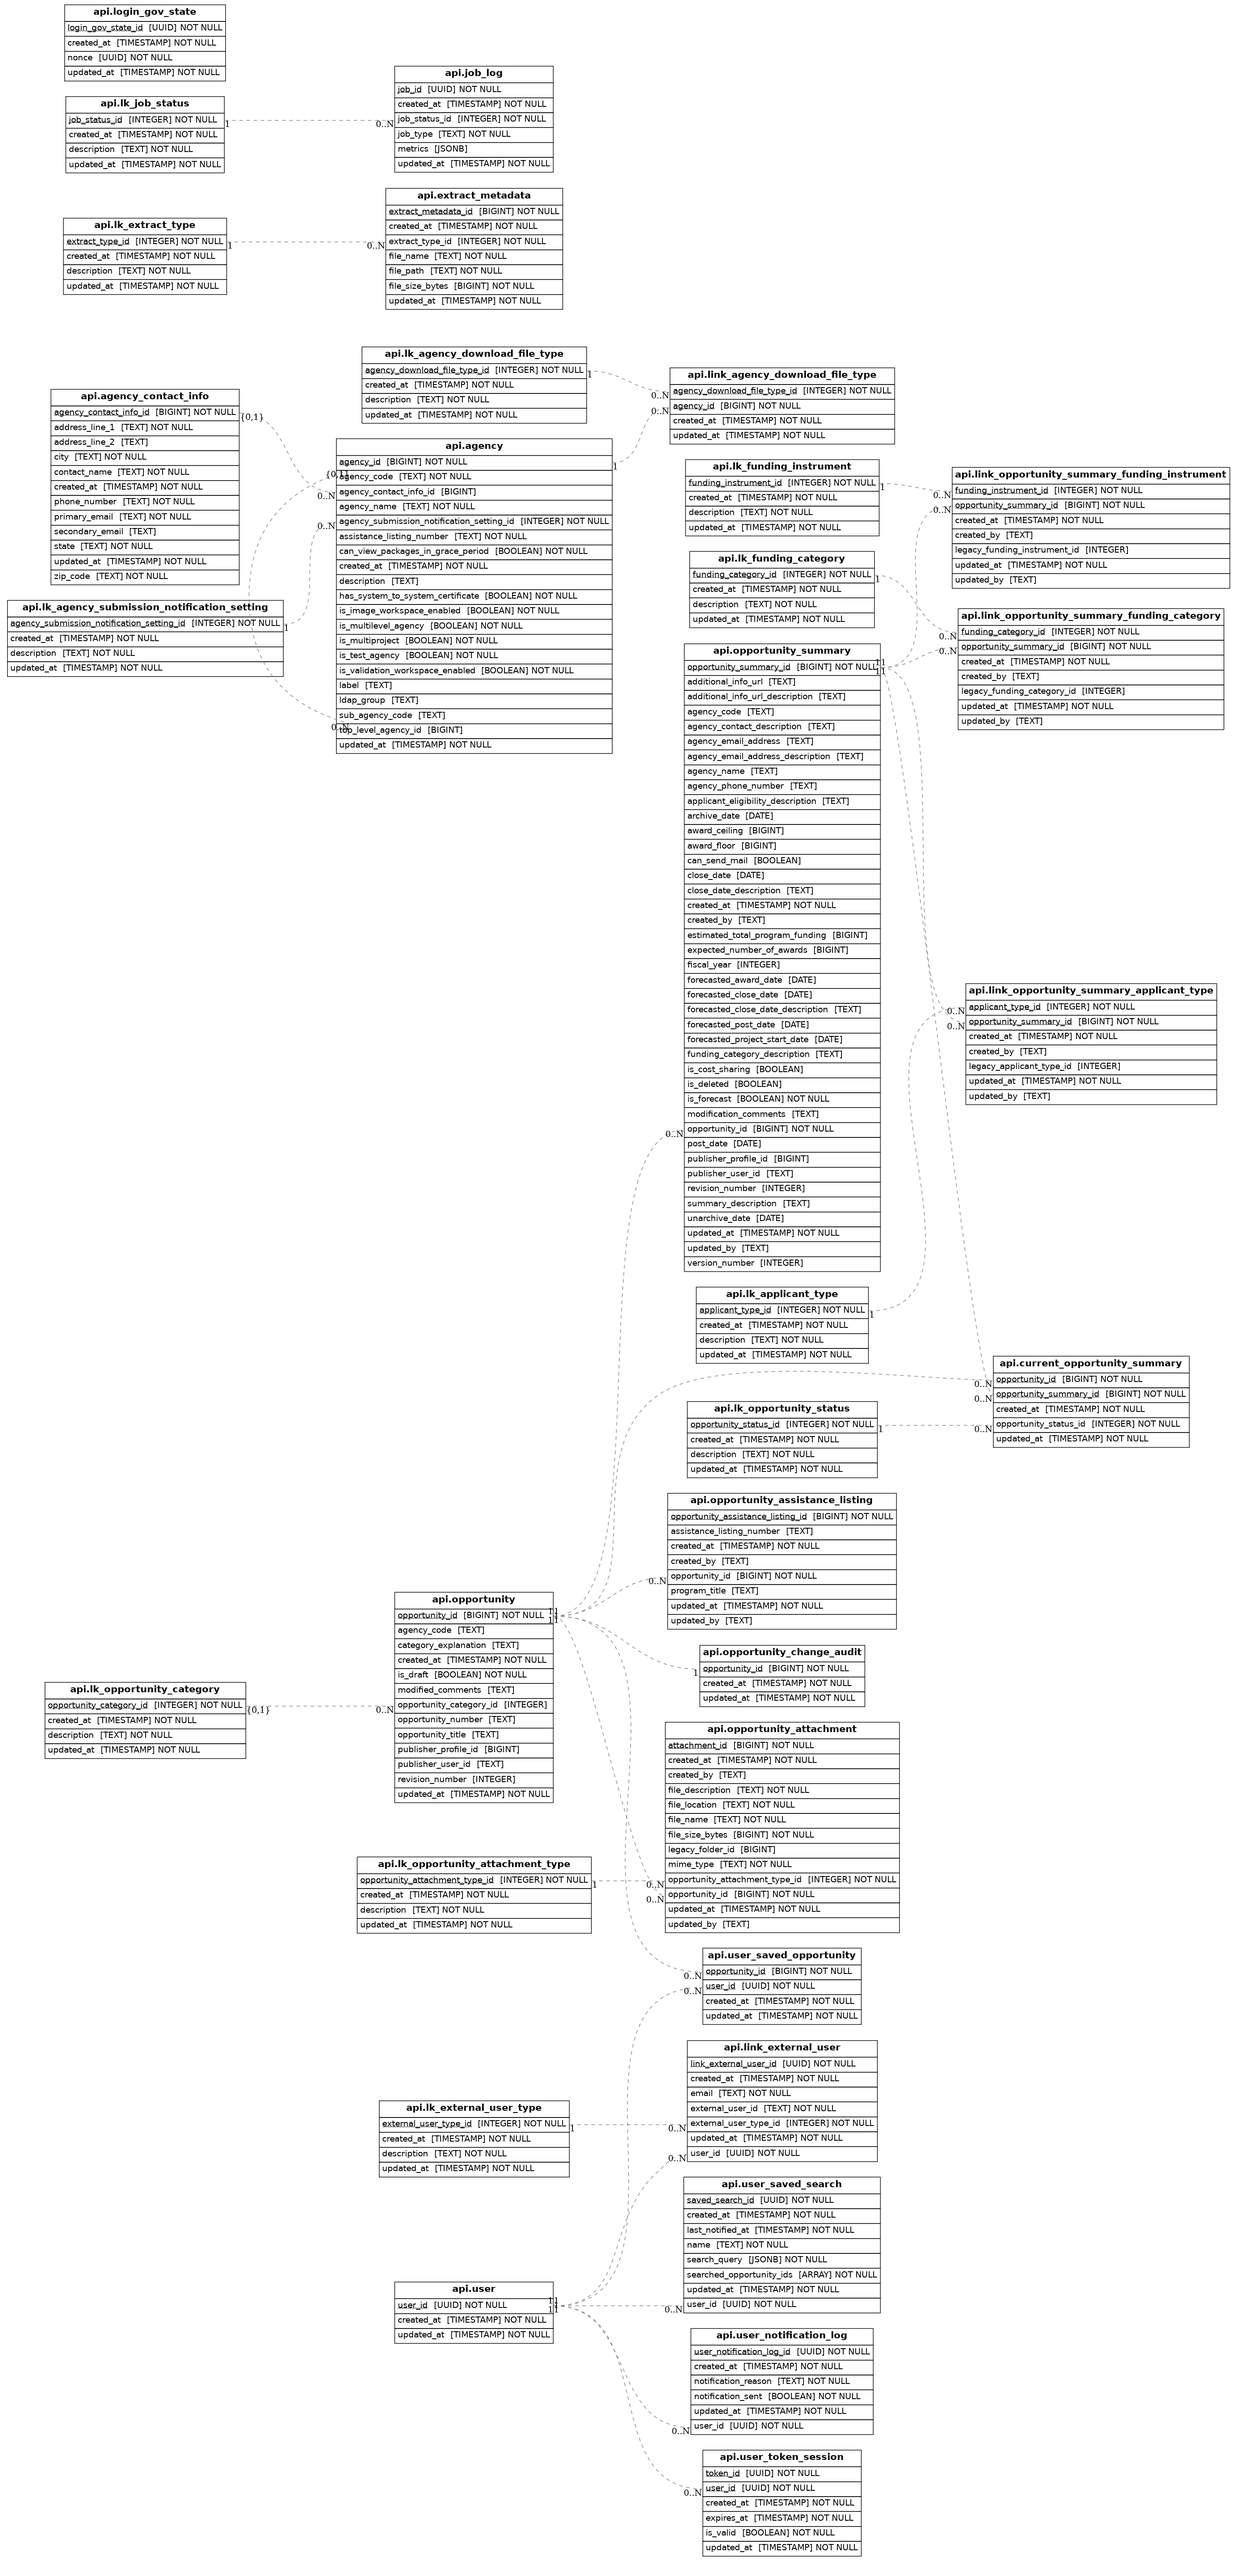
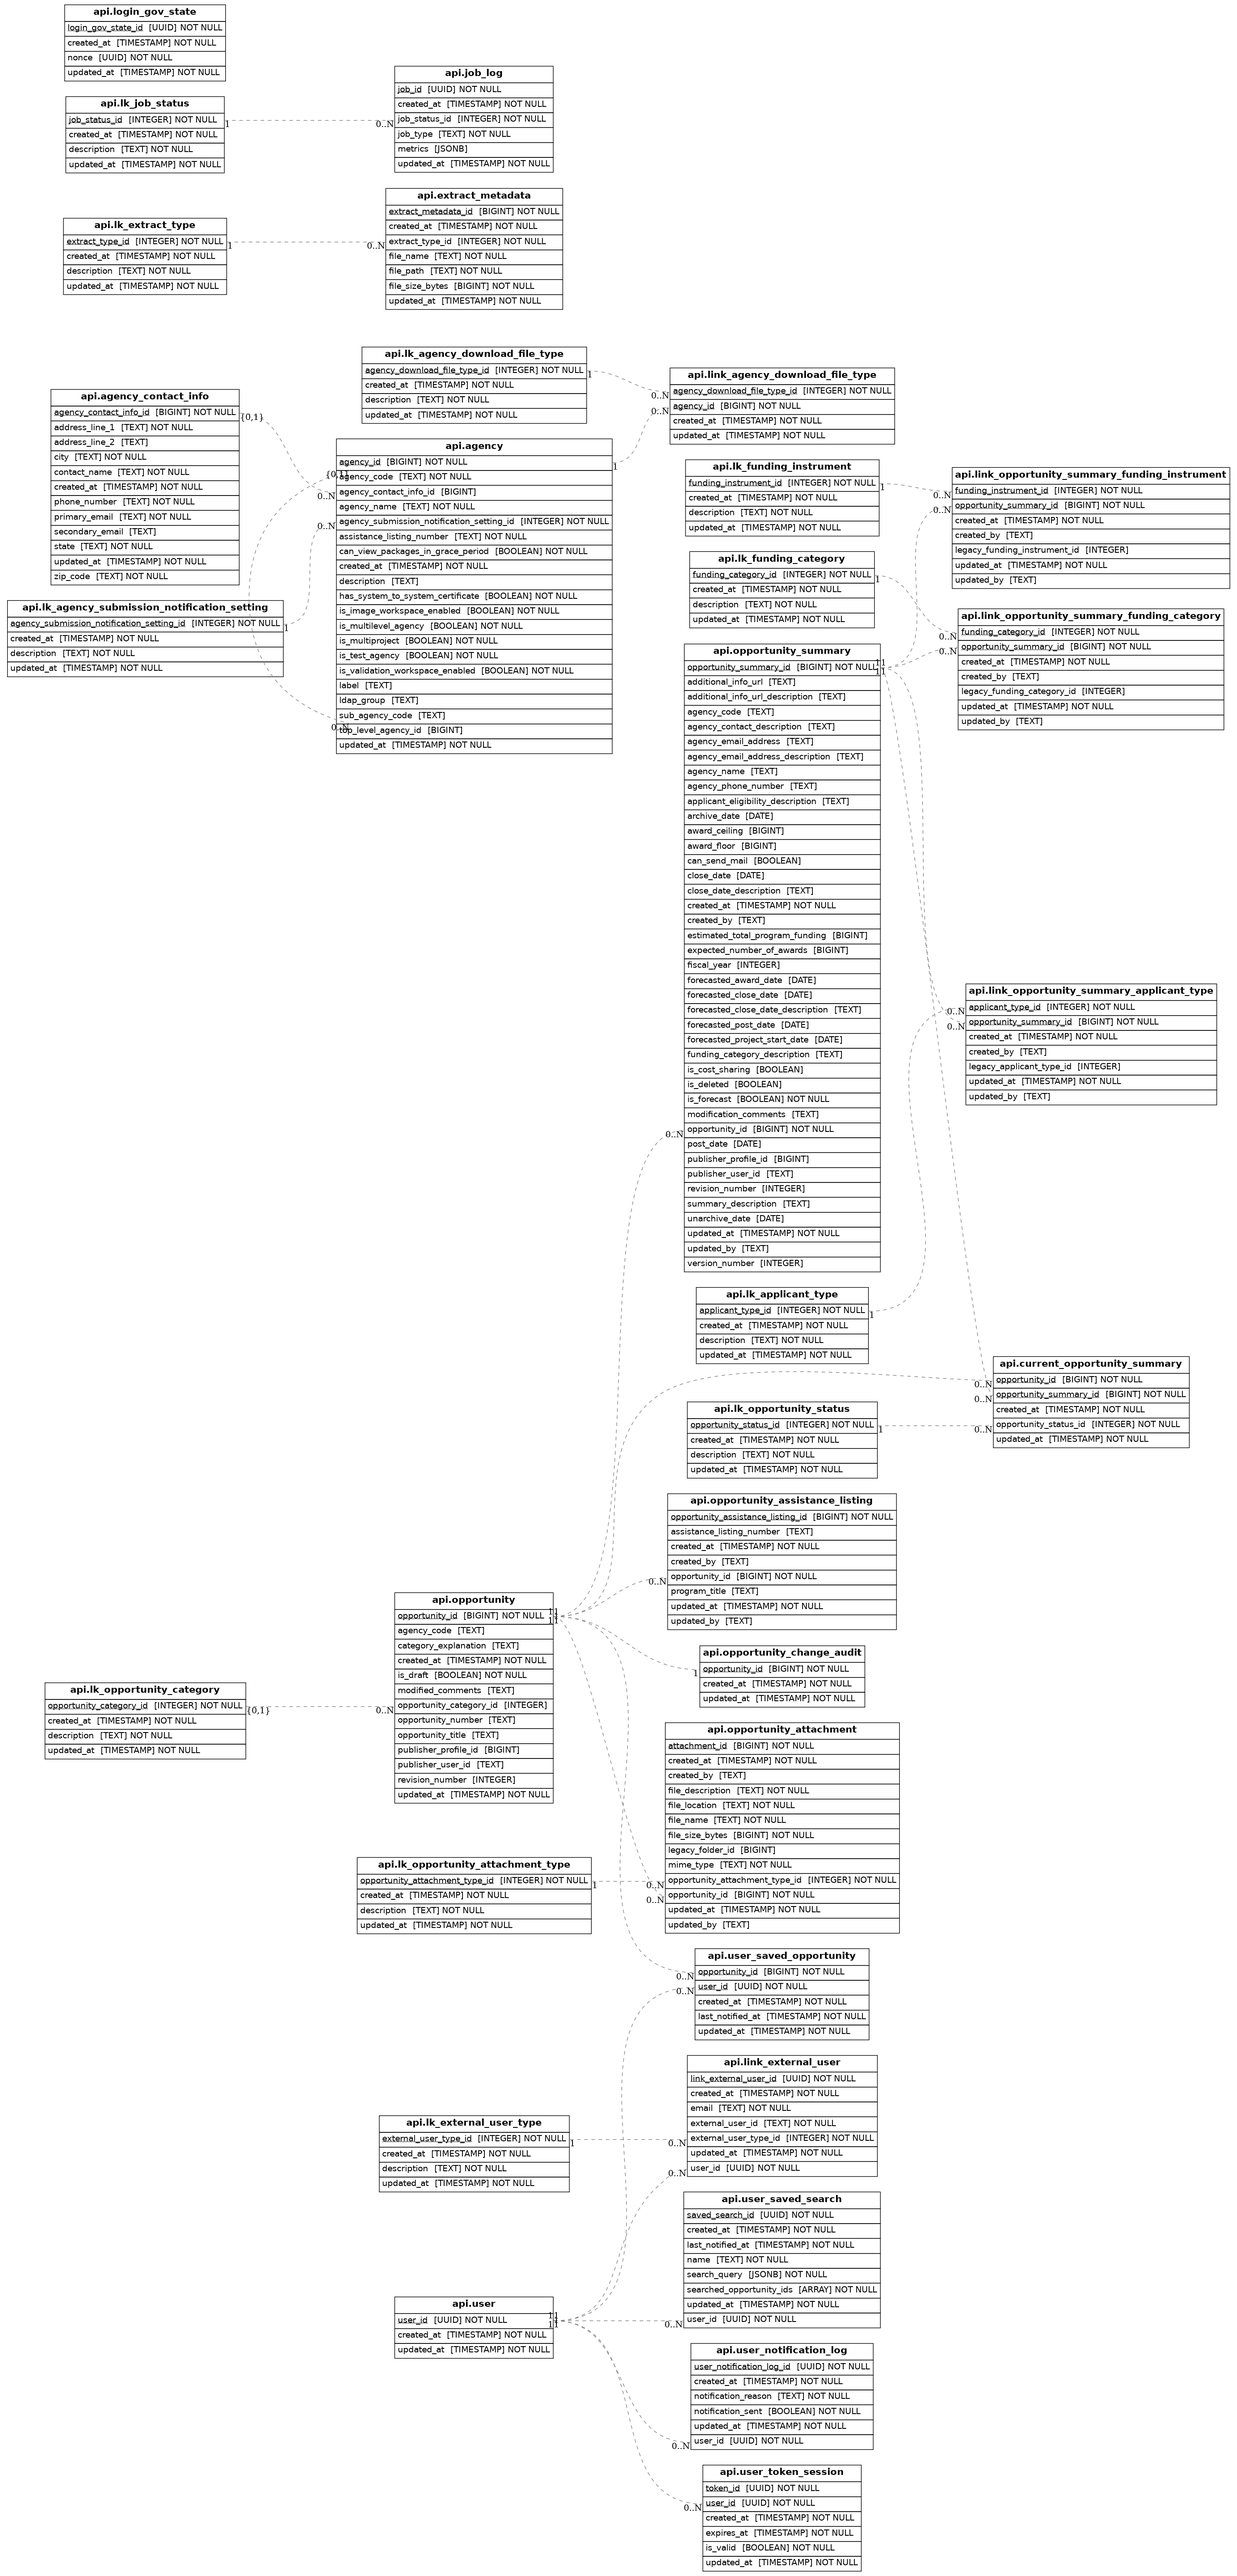
[Issue #3536] Add saved opportunity notifications to backend job (#3639)
## Summary
Fixes #3536

### Time to review: 15 mins

## Changes proposed
Add `last_notified_at` to `user_saved_opportunity`
Collect opportunity notifications, log them out and test.

## Context for reviewers
Can be merged, now that #3527 is wrapped up. 

## Additional information
See attached unit tests

diff --git a/api/tests/src/task/notifications/test_generate_notifications.py b/api/tests/src/task/notifications/test_generate_notifications.py
@@ -1,5 +1,132 @@
+from datetime import timedelta
+
+import pytest
+
+import tests.src.db.models.factories as factories
+from src.db.models.user_models import UserNotificationLog
+from src.task.notifications.generate_notifications import NotificationConstants
+
+
+@pytest.fixture
+def clear_notification_logs(db_session):
+    """Clear all notification logs"""
+    db_session.query(UserNotificationLog).delete()
+
+
 def test_via_cli(cli_runner, db_session, enable_factory_create, user):
     """Simple test that verifies we can invoke the notification task via CLI"""
     result = cli_runner.invoke(args=["task", "generate-notifications"])
 
     assert result.exit_code == 0
+
+
+def test_collect_notifications_cli(cli_runner, db_session, enable_factory_create, user, caplog):
+    """Simple test that verifies we can invoke the notification task via CLI"""
+    # Create a saved opportunity that needs notification
+    opportunity = factories.OpportunityFactory.create()
+    saved_opportunity = factories.UserSavedOpportunityFactory.create(
+        user=user,
+        opportunity=opportunity,
+        last_notified_at=opportunity.updated_at - timedelta(days=1),
+    )
+    factories.OpportunityChangeAuditFactory.create(
+        opportunity=opportunity,
+        updated_at=saved_opportunity.last_notified_at + timedelta(minutes=1),
+    )
+
+    result = cli_runner.invoke(args=["task", "generate-notifications"])
+
+    assert result.exit_code == 0
+
+    # Verify expected log messages
+    assert "Collected opportunity notifications" in caplog.text
+    assert "Would send notification to user" in caplog.text
+
+    # Verify the log contains the correct metrics
+    log_records = [r for r in caplog.records if "Would send notification to user" in r.message]
+    assert len(log_records) == 1
+    extra = log_records[0].__dict__
+    assert extra["user_id"] == user.user_id
+    assert extra["opportunity_count"] == 1
+    assert extra["search_count"] == 0
+
+
+def test_last_notified_at_updates(cli_runner, db_session, enable_factory_create, user):
+    """Test that last_notified_at gets updated after sending notifications"""
+    # Create an opportunity that was updated after the last notification
+    opportunity = factories.OpportunityFactory.create()
+    saved_opp = factories.UserSavedOpportunityFactory.create(
+        user=user,
+        opportunity=opportunity,
+        last_notified_at=opportunity.updated_at - timedelta(days=1),
+    )
+    factories.OpportunityChangeAuditFactory.create(
+        opportunity=opportunity,
+        updated_at=saved_opp.last_notified_at + timedelta(minutes=1),
+    )
+    # Store the original notification time
+    original_notification_time = saved_opp.last_notified_at
+
+    # Run the notification task
+    result = cli_runner.invoke(args=["task", "generate-notifications"])
+    assert result.exit_code == 0
+
+    # Refresh the saved opportunity from the database
+    db_session.refresh(saved_opp)
+
+    # Verify last_notified_at was updated
+    assert saved_opp.last_notified_at > original_notification_time
+    # Verify last_notified_at is now after the opportunity's updated_at
+    assert saved_opp.last_notified_at > opportunity.updated_at
+
+
+def test_notification_log_creation(
+    cli_runner, db_session, enable_factory_create, clear_notification_logs, user
+):
+    """Test that notification logs are created when notifications are sent"""
+    # Create a saved opportunity that needs notification
+    opportunity = factories.OpportunityFactory.create()
+    saved_opportunity = factories.UserSavedOpportunityFactory.create(
+        user=user,
+        opportunity=opportunity,
+        last_notified_at=opportunity.updated_at - timedelta(days=1),
+    )
+
+    factories.OpportunityChangeAuditFactory.create(
+        opportunity=opportunity,
+        updated_at=saved_opportunity.last_notified_at + timedelta(minutes=1),
+    )
+
+    # Run the notification task
+    result = cli_runner.invoke(args=["task", "generate-notifications"])
+    assert result.exit_code == 0
+
+    # Verify notification log was created
+    notification_logs = db_session.query(UserNotificationLog).all()
+    assert len(notification_logs) == 1
+
+    log = notification_logs[0]
+    assert log.user_id == user.user_id
+    assert log.notification_reason == NotificationConstants.OPPORTUNITY_UPDATES
+    assert log.notification_sent is True
+
+
+def test_no_notification_log_when_no_updates(
+    cli_runner, db_session, enable_factory_create, clear_notification_logs, user
+):
+    """Test that no notification log is created when there are no updates"""
+    # Create a saved opportunity that doesn't need notification
+    opportunity = factories.OpportunityFactory.create()
+    factories.UserSavedOpportunityFactory.create(
+        user=user,
+        opportunity=opportunity,
+        last_notified_at=opportunity.updated_at + timedelta(minutes=1),  # After the update
+    )
+
+    # Run the notification task
+    result = cli_runner.invoke(args=["task", "generate-notifications"])
+    assert result.exit_code == 0
+
+    # Verify no notification log was created
+    notification_logs = db_session.query(UserNotificationLog).all()
+    assert len(notification_logs) == 0

diff --git a/api/src/task/notifications/generate_notifications.py b/api/src/task/notifications/generate_notifications.py
@@ -3,12 +3,16 @@ import uuid
 from dataclasses import dataclass, field
 from enum import StrEnum
 
+from sqlalchemy import select, update
+
 import src.adapters.db as db
 import src.adapters.db.flask_db as flask_db
-from src.db.models.user_models import User
+from src.db.models.opportunity_models import OpportunityChangeAudit
+from src.db.models.user_models import UserNotificationLog, UserSavedOpportunity
 from src.task.ecs_background_task import ecs_background_task
 from src.task.task import Task
 from src.task.task_blueprint import task_blueprint
+from src.util import datetime_util
 
 logger = logging.getLogger(__name__)
 
@@ -24,12 +28,15 @@ def run_notification_task(db_session: db.Session) -> None:
     task.run()
 
 
+class NotificationConstants:
+    OPPORTUNITY_UPDATES = "opportunity_updates"
+
+
 @dataclass
 class NotificationContainer:
     """Container for collecting notifications for a single user"""
 
-    user: User
-    updated_opportunity_ids: list[int] = field(default_factory=list)
+    saved_opportunities: list[UserSavedOpportunity] = field(default_factory=list)
     # TODO: Change from str to something else
     updated_searches: list[str] = field(default_factory=list)
 
@@ -55,11 +62,35 @@ class NotificationTask(Task):
         self._send_notifications()
 
     def _collect_opportunity_notifications(self) -> None:
-        """Collect notifications for changed opportunities
-        To be implemented in future ticket
-        """
-        logger.info("Opportunity notification collection not yet implemented")
-        pass
+        """Collect notifications for changed opportunities that users are tracking"""
+        stmt = (
+            select(UserSavedOpportunity)
+            .join(
+                OpportunityChangeAudit,
+                OpportunityChangeAudit.opportunity_id == UserSavedOpportunity.opportunity_id,
+            )
+            .where(OpportunityChangeAudit.updated_at > UserSavedOpportunity.last_notified_at)
+            .distinct()
+        )
+
+        results = self.db_session.execute(stmt)
+
+        for row in results.scalars():
+            user_id = row.user_id
+            if user_id not in self.user_notification_map:
+                self.user_notification_map[user_id] = NotificationContainer()
+            self.user_notification_map[user_id].saved_opportunities.append(row)
+
+        logger.info(
+            "Collected opportunity notifications",
+            extra={
+                "user_count": len(self.user_notification_map),
+                "total_notifications": sum(
+                    len(container.saved_opportunities)
+                    for container in self.user_notification_map.values()
+                ),
+            },
+        )
 
     def _collect_search_notifications(self) -> None:
         """Collect notifications for changed saved searches
@@ -71,7 +102,7 @@ class NotificationTask(Task):
     def _send_notifications(self) -> None:
         """Send collected notifications to users"""
         for user_id, container in self.user_notification_map.items():
-            if not container.updated_opportunity_ids and not container.updated_searches:
+            if not container.saved_opportunities and not container.updated_searches:
                 continue
 
             # TODO: Implement actual notification sending in future ticket
@@ -79,14 +110,33 @@ class NotificationTask(Task):
                 "Would send notification to user",
                 extra={
                     "user_id": user_id,
-                    "opportunity_count": len(container.updated_opportunity_ids),
+                    "opportunity_count": len(container.saved_opportunities),
                     "search_count": len(container.updated_searches),
                 },
             )
 
-            self.increment(
-                self.Metrics.OPPORTUNITIES_TRACKED, len(container.updated_opportunity_ids)
+            # Create notification log entry
+            notification_log = UserNotificationLog(
+                user_id=user_id,
+                notification_reason=NotificationConstants.OPPORTUNITY_UPDATES,
+                notification_sent=True,
             )
+            self.db_session.add(notification_log)
+
+            # Update last_notified_at for all opportunities we just notified about
+            opportunity_ids = [
+                saved_opp.opportunity_id for saved_opp in container.saved_opportunities
+            ]
+            self.db_session.execute(
+                update(UserSavedOpportunity)
+                .where(
+                    UserSavedOpportunity.user_id == user_id,
+                    UserSavedOpportunity.opportunity_id.in_(opportunity_ids),
+                )
+                .values(last_notified_at=datetime_util.utcnow())
+            )
+
+            self.increment(self.Metrics.OPPORTUNITIES_TRACKED, len(container.saved_opportunities))
             self.increment(self.Metrics.SEARCHES_TRACKED, len(container.updated_searches))
             self.increment(self.Metrics.NOTIFICATIONS_SENT)
             self.increment(self.Metrics.USERS_NOTIFIED)

diff --git a/api/src/db/models/user_models.py b/api/src/db/models/user_models.py
@@ -84,6 +84,10 @@ class UserSavedOpportunity(ApiSchemaTable, TimestampMixin):
         BigInteger, ForeignKey(Opportunity.opportunity_id), primary_key=True
     )
 
+    last_notified_at: Mapped[datetime] = mapped_column(
+        default=datetime.utcnow, server_default="NOW()", nullable=False
+    )
+
     user: Mapped[User] = relationship(User, back_populates="saved_opportunities")
     opportunity: Mapped[Opportunity] = relationship(
         "Opportunity", back_populates="saved_opportunities_by_users"
@@ -115,7 +119,9 @@ class UserSavedSearch(ApiSchemaTable, TimestampMixin):
 class UserNotificationLog(ApiSchemaTable, TimestampMixin):
     __tablename__ = "user_notification_log"
 
-    user_notification_log_id: Mapped[uuid.UUID] = mapped_column(UUID, primary_key=True)
+    user_notification_log_id: Mapped[uuid.UUID] = mapped_column(
+        UUID, primary_key=True, default=uuid.uuid4
+    )
 
     user_id: Mapped[uuid.UUID] = mapped_column(ForeignKey(User.user_id), index=True)
     user: Mapped[User] = relationship(User)

diff --git a/api/src/db/migrations/versions/2025_01_24_add_last_notified_at_to_user_saved_.py b/api/src/db/migrations/versions/2025_01_24_add_last_notified_at_to_user_saved_.py
@@ -1,0 +1,34 @@
+"""Add last_notified_at to user saved opportunity table
+
+Revision ID: 43b179a7c92e
+Revises: dc04ce955a9a
+Create Date: 2025-01-24 17:15:14.064880
+
+"""
+
+import sqlalchemy as sa
+from alembic import op
+
+# revision identifiers, used by Alembic.
+revision = "43b179a7c92e"
+down_revision = "9e7fc937646a"
+branch_labels = None
+depends_on = None
+
+
+def upgrade():
+    # ### commands auto generated by Alembic - please adjust! ###
+    op.add_column(
+        "user_saved_opportunity",
+        sa.Column(
+            "last_notified_at", sa.TIMESTAMP(timezone=True), server_default="NOW()", nullable=False
+        ),
+        schema="api",
+    )
+    # ### end Alembic commands ###
+
+
+def downgrade():
+    # ### commands auto generated by Alembic - please adjust! ###
+    op.drop_column("user_saved_opportunity", "last_notified_at", schema="api")
+    # ### end Alembic commands ###

diff --git a/api/src/task/task.py b/api/src/task/task.py
@@ -35,8 +35,10 @@ class Task(abc.ABC, metaclass=abc.ABCMeta):
         job_succeeded = True
 
         try:
-            logger.info("Starting %s", self.cls_name())
-            start = time.perf_counter()
+            # Create initial job record
+            self.job = JobLog(job_type=self.cls_name(), job_status=JobStatus.STARTED)
+            self.db_session.add(self.job)
+            self.db_session.commit()
 
             # Create initial job record
             self.job = JobLog(job_type=self.cls_name(), job_status=JobStatus.STARTED)
@@ -48,6 +50,9 @@ class Task(abc.ABC, metaclass=abc.ABCMeta):
 
             # Run the actual task
             self.run_task()
+
+            logger.info("Starting %s", self.cls_name())
+            start = time.perf_counter()
 
             # Calculate and set a duration
             end = time.perf_counter()
